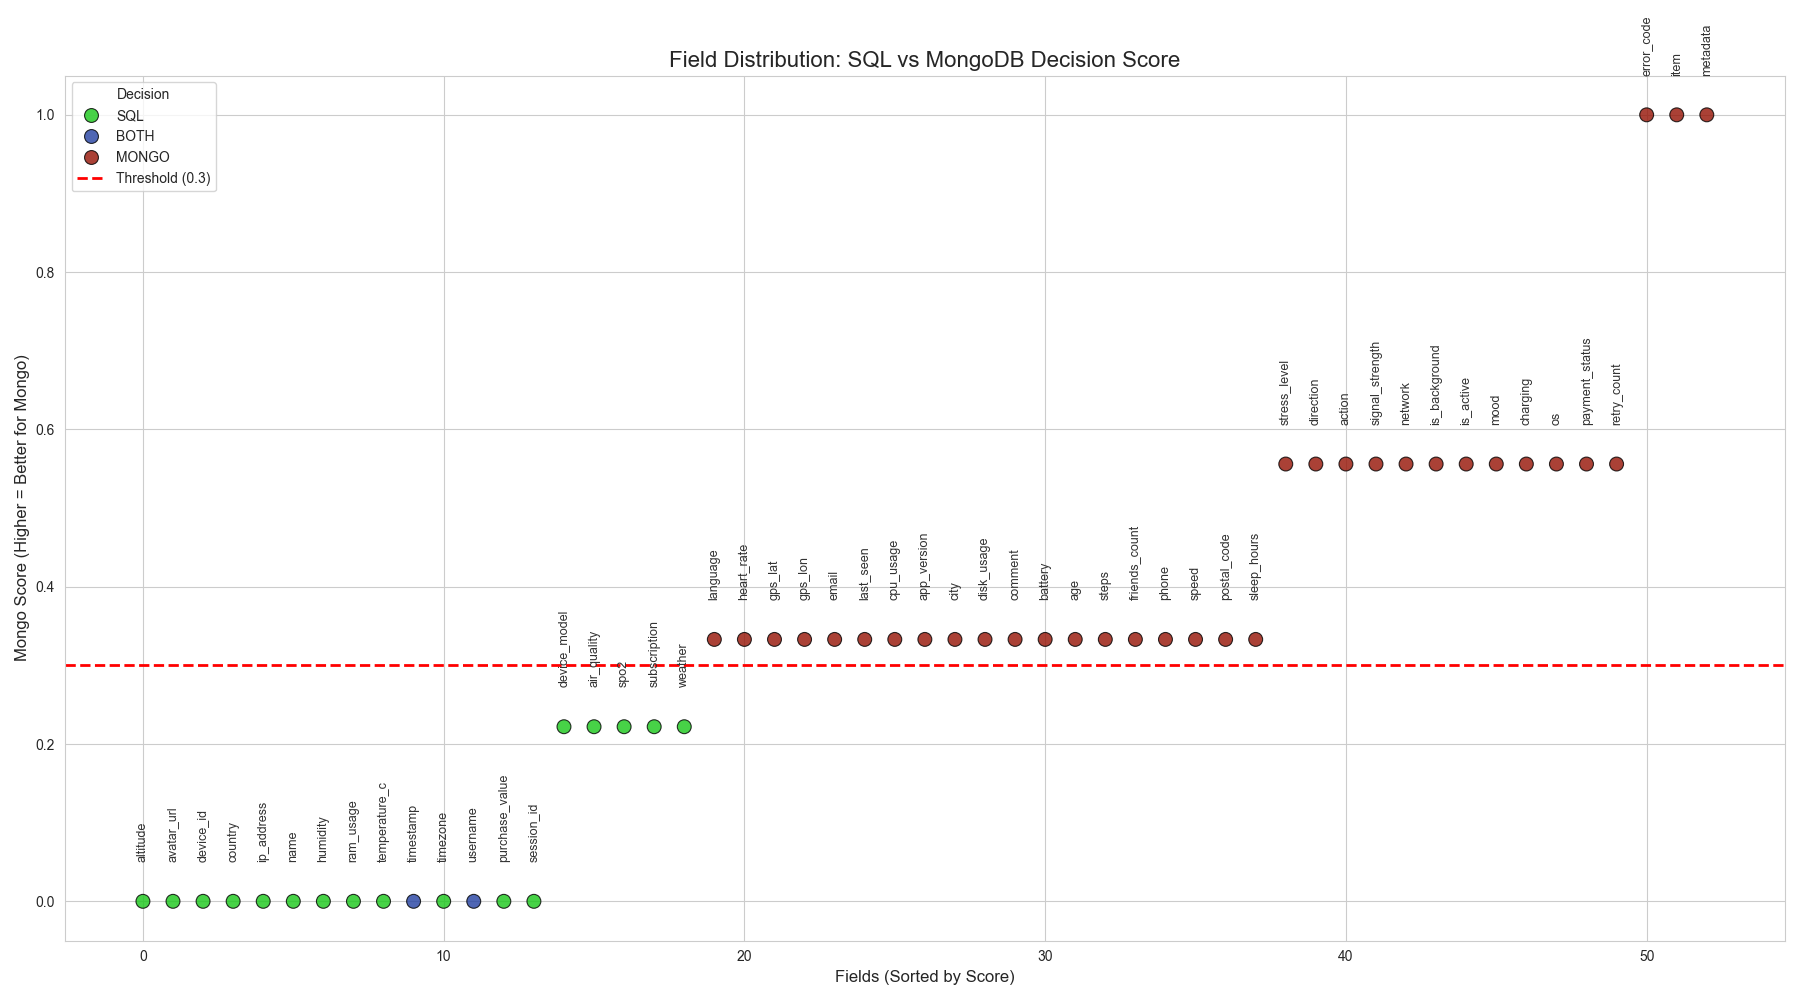
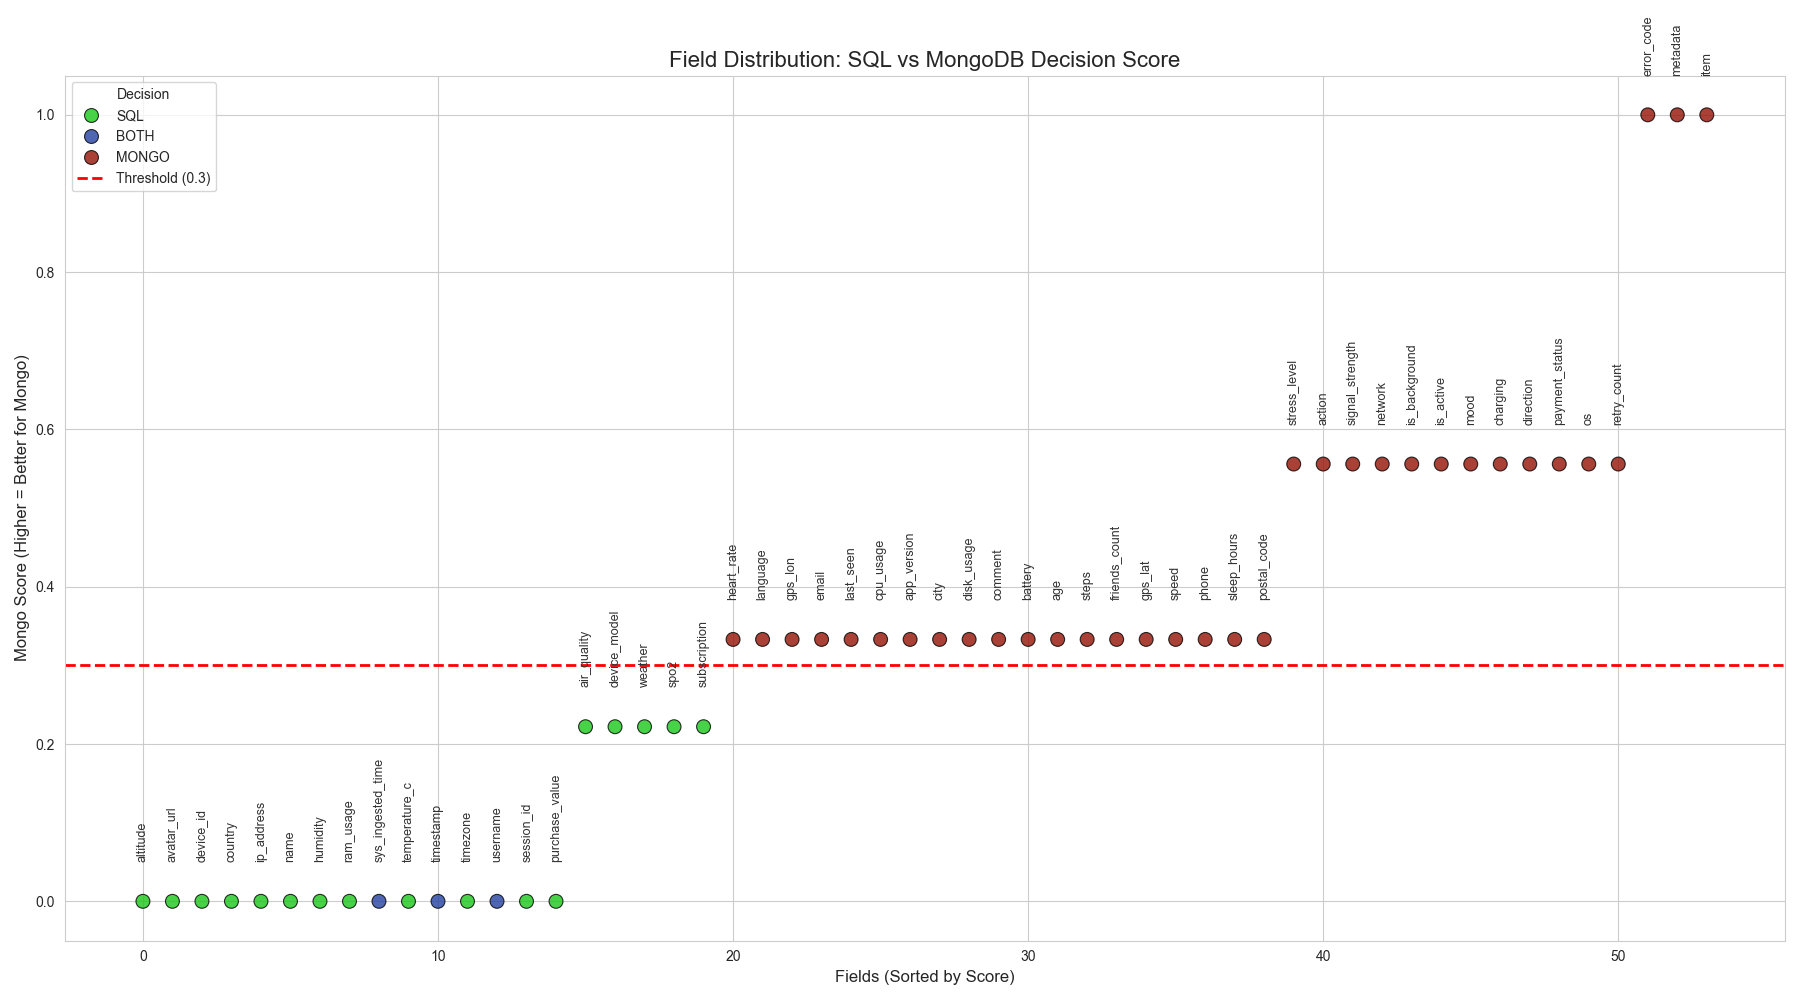
Added sys_ingested_time

diff --git a/src/client.py b/src/client.py
@@ -4,6 +4,7 @@ import os
 import subprocess
 import time
 import sys
+from datetime import datetime
 
 def wait_for_server(url: str, timeout: int = 15):
     start_time = time.time()
@@ -30,6 +31,10 @@ def collect_data(url: str, count: int, output_file: str = "data/raw_data.json"):
             for line in response.iter_lines():
                 if line.startswith("data: "):
                     record = json.loads(line[6:])
+                    
+                    # Add Ingestion Time
+                    record['sys_ingested_time'] = datetime.now().isoformat()
+                    
                     records.append(record)
                     
                     if len(records) % 100 == 0:
@@ -77,3 +82,6 @@ def run_data_collection(record_count: int = 1000):
     else:
         print(">>> Error: Server failed to start or timed out.")
         server_proc.terminate()
+
+if __name__ == "__main__":
+    run_data_collection()

diff --git a/src/one_by_one.py b/src/one_by_one.py
@@ -4,6 +4,7 @@ import json
 import time
 import subprocess
 import httpx
+from datetime import datetime
 
 scriptDir = os.path.dirname(os.path.abspath(__file__))
 dataDir = os.path.join(scriptDir, '..', 'data')
@@ -61,6 +62,7 @@ def processAndSplit(recordCount: int):
                     continue
                 
                 recordJson = json.loads(line[6:])
+                recordJson['sys_ingested_time'] = datetime.now().isoformat() #sys_ingested_time
                 count += 1
                 
                 sqlDoc = {}
